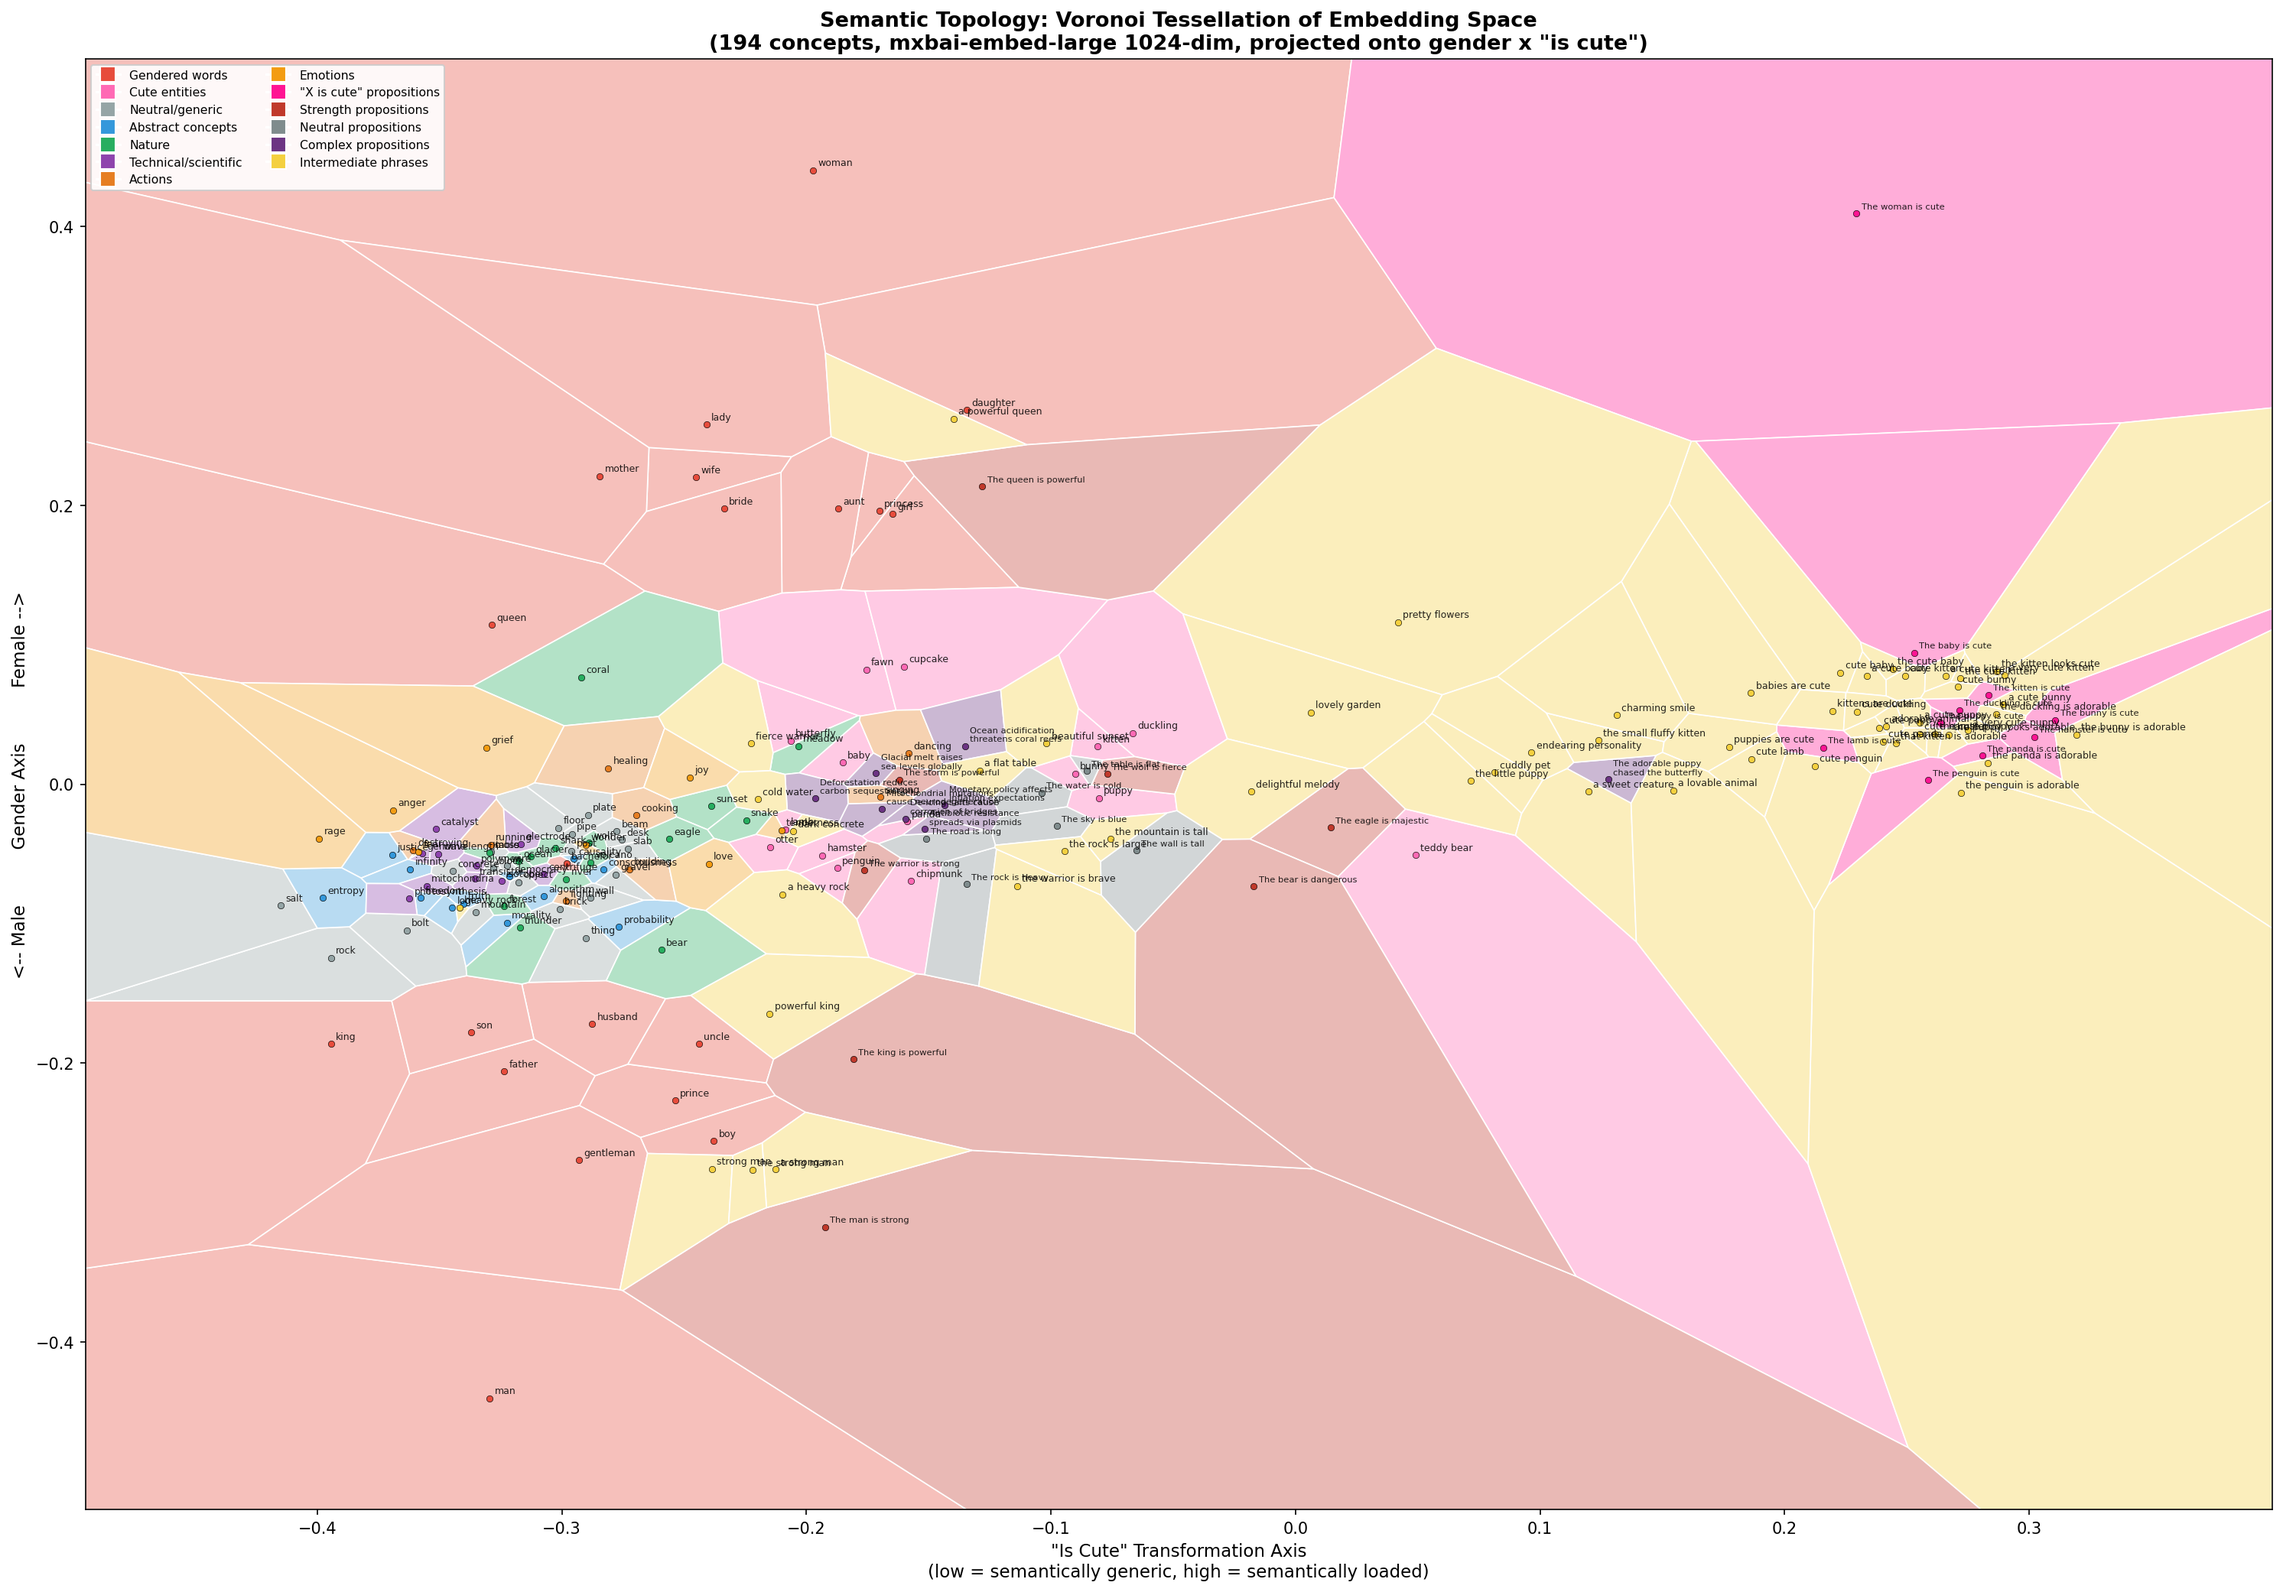
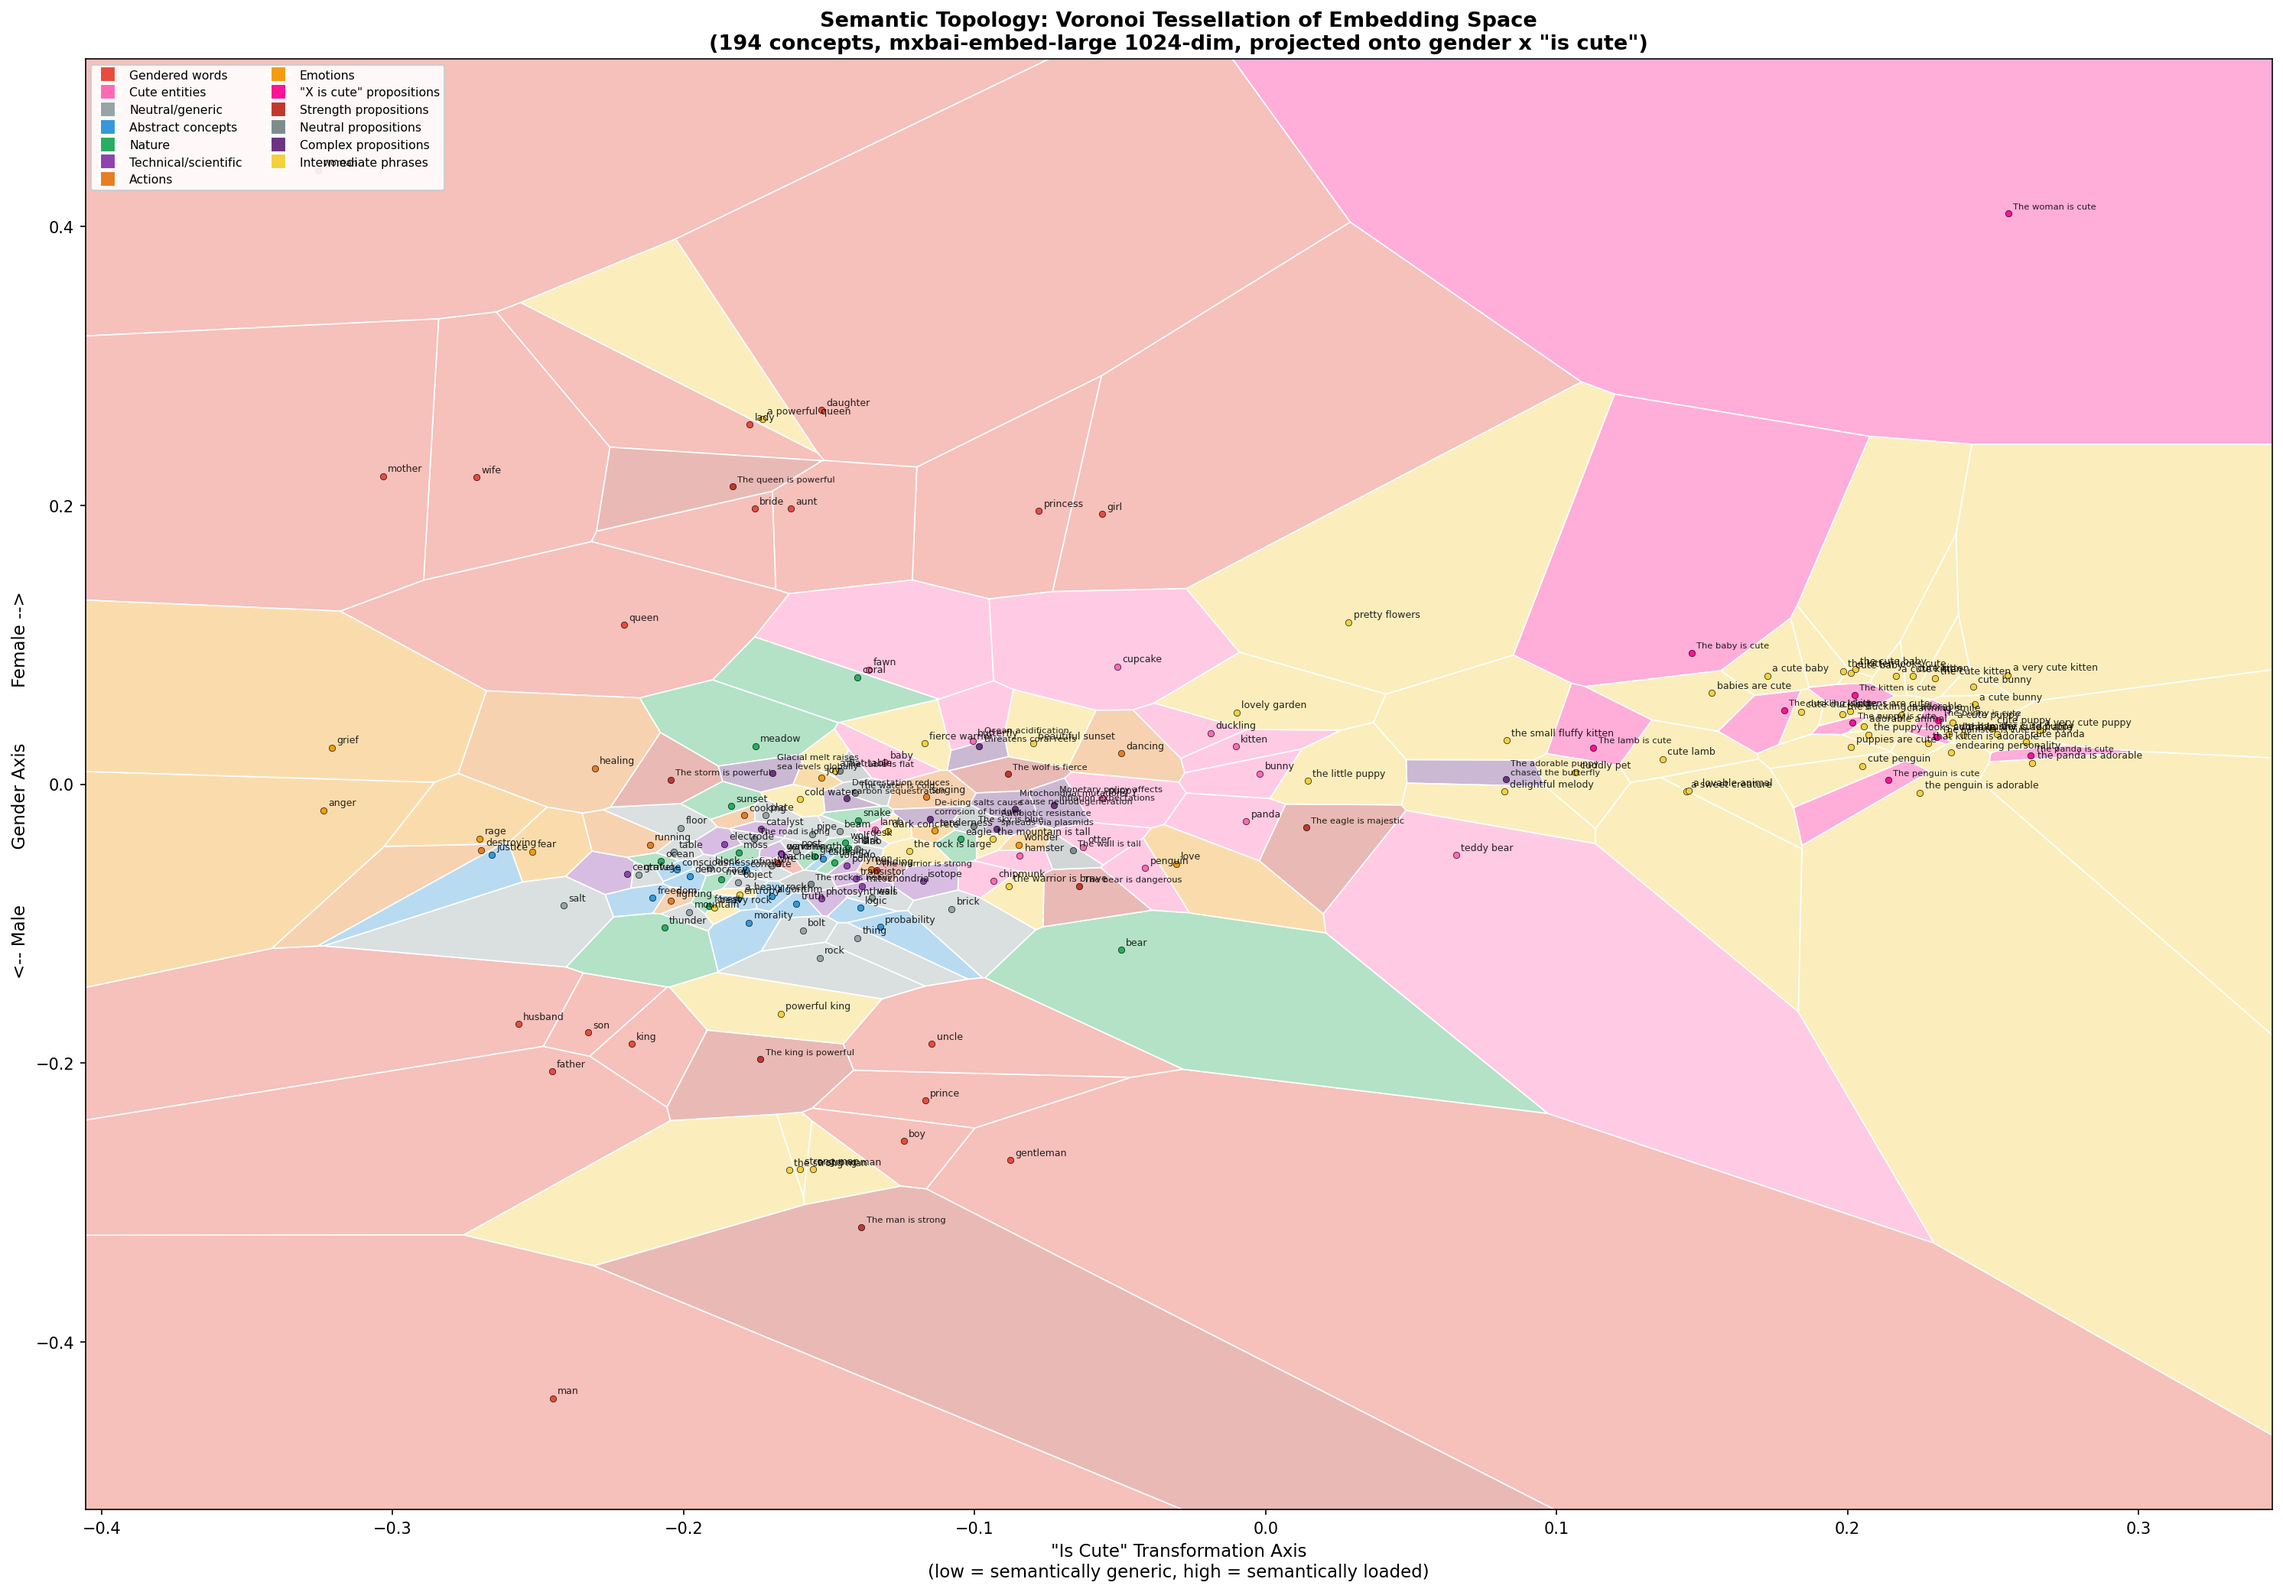
Switch cute axis to woman->cute woman single displacement
Cleaner axis definition: normalize(embed("cute woman") - embed("woman"))
instead of averaging 8 noun-to-proposition displacements. Axes now
nearly orthogonal (dot = -0.09 vs 0.15 before). Gender and cute
dimensions slice the space more independently. Gradient still smooth,
no cliffs. 194 concepts, all cells valid.

Changed region(s): [[0.0312, 0.1561, 0.997, 0.9678], [0.5296, 0.0312, 0.592, 0.1249]]

diff --git a/prototype/semantic_topology_viz.py b/prototype/semantic_topology_viz.py
@@ -37,11 +37,9 @@ def compute_axes():
     gender_vecs = embed_texts(["woman", "man"])
     gender_axis = normalize(gender_vecs[0] - gender_vecs[1])
 
-    # "Is cute" transformation axis
-    nouns = ["cat", "dog", "baby", "flower", "bird", "rabbit", "frog", "rock"]
-    bare_vecs = embed_texts(nouns)
-    prop_vecs = embed_texts([f"The {n} is cute" for n in nouns])
-    cute_axis = normalize(np.mean(prop_vecs - bare_vecs, axis=0))
+    # "Cute" modifier axis: pure displacement from "woman" to "cute woman"
+    cute_vecs = embed_texts(["cute woman", "woman"])
+    cute_axis = normalize(cute_vecs[0] - cute_vecs[1])
 
     dot = float(np.dot(gender_axis, cute_axis))
     print(f"  Axis orthogonality: dot = {dot:.4f}")
